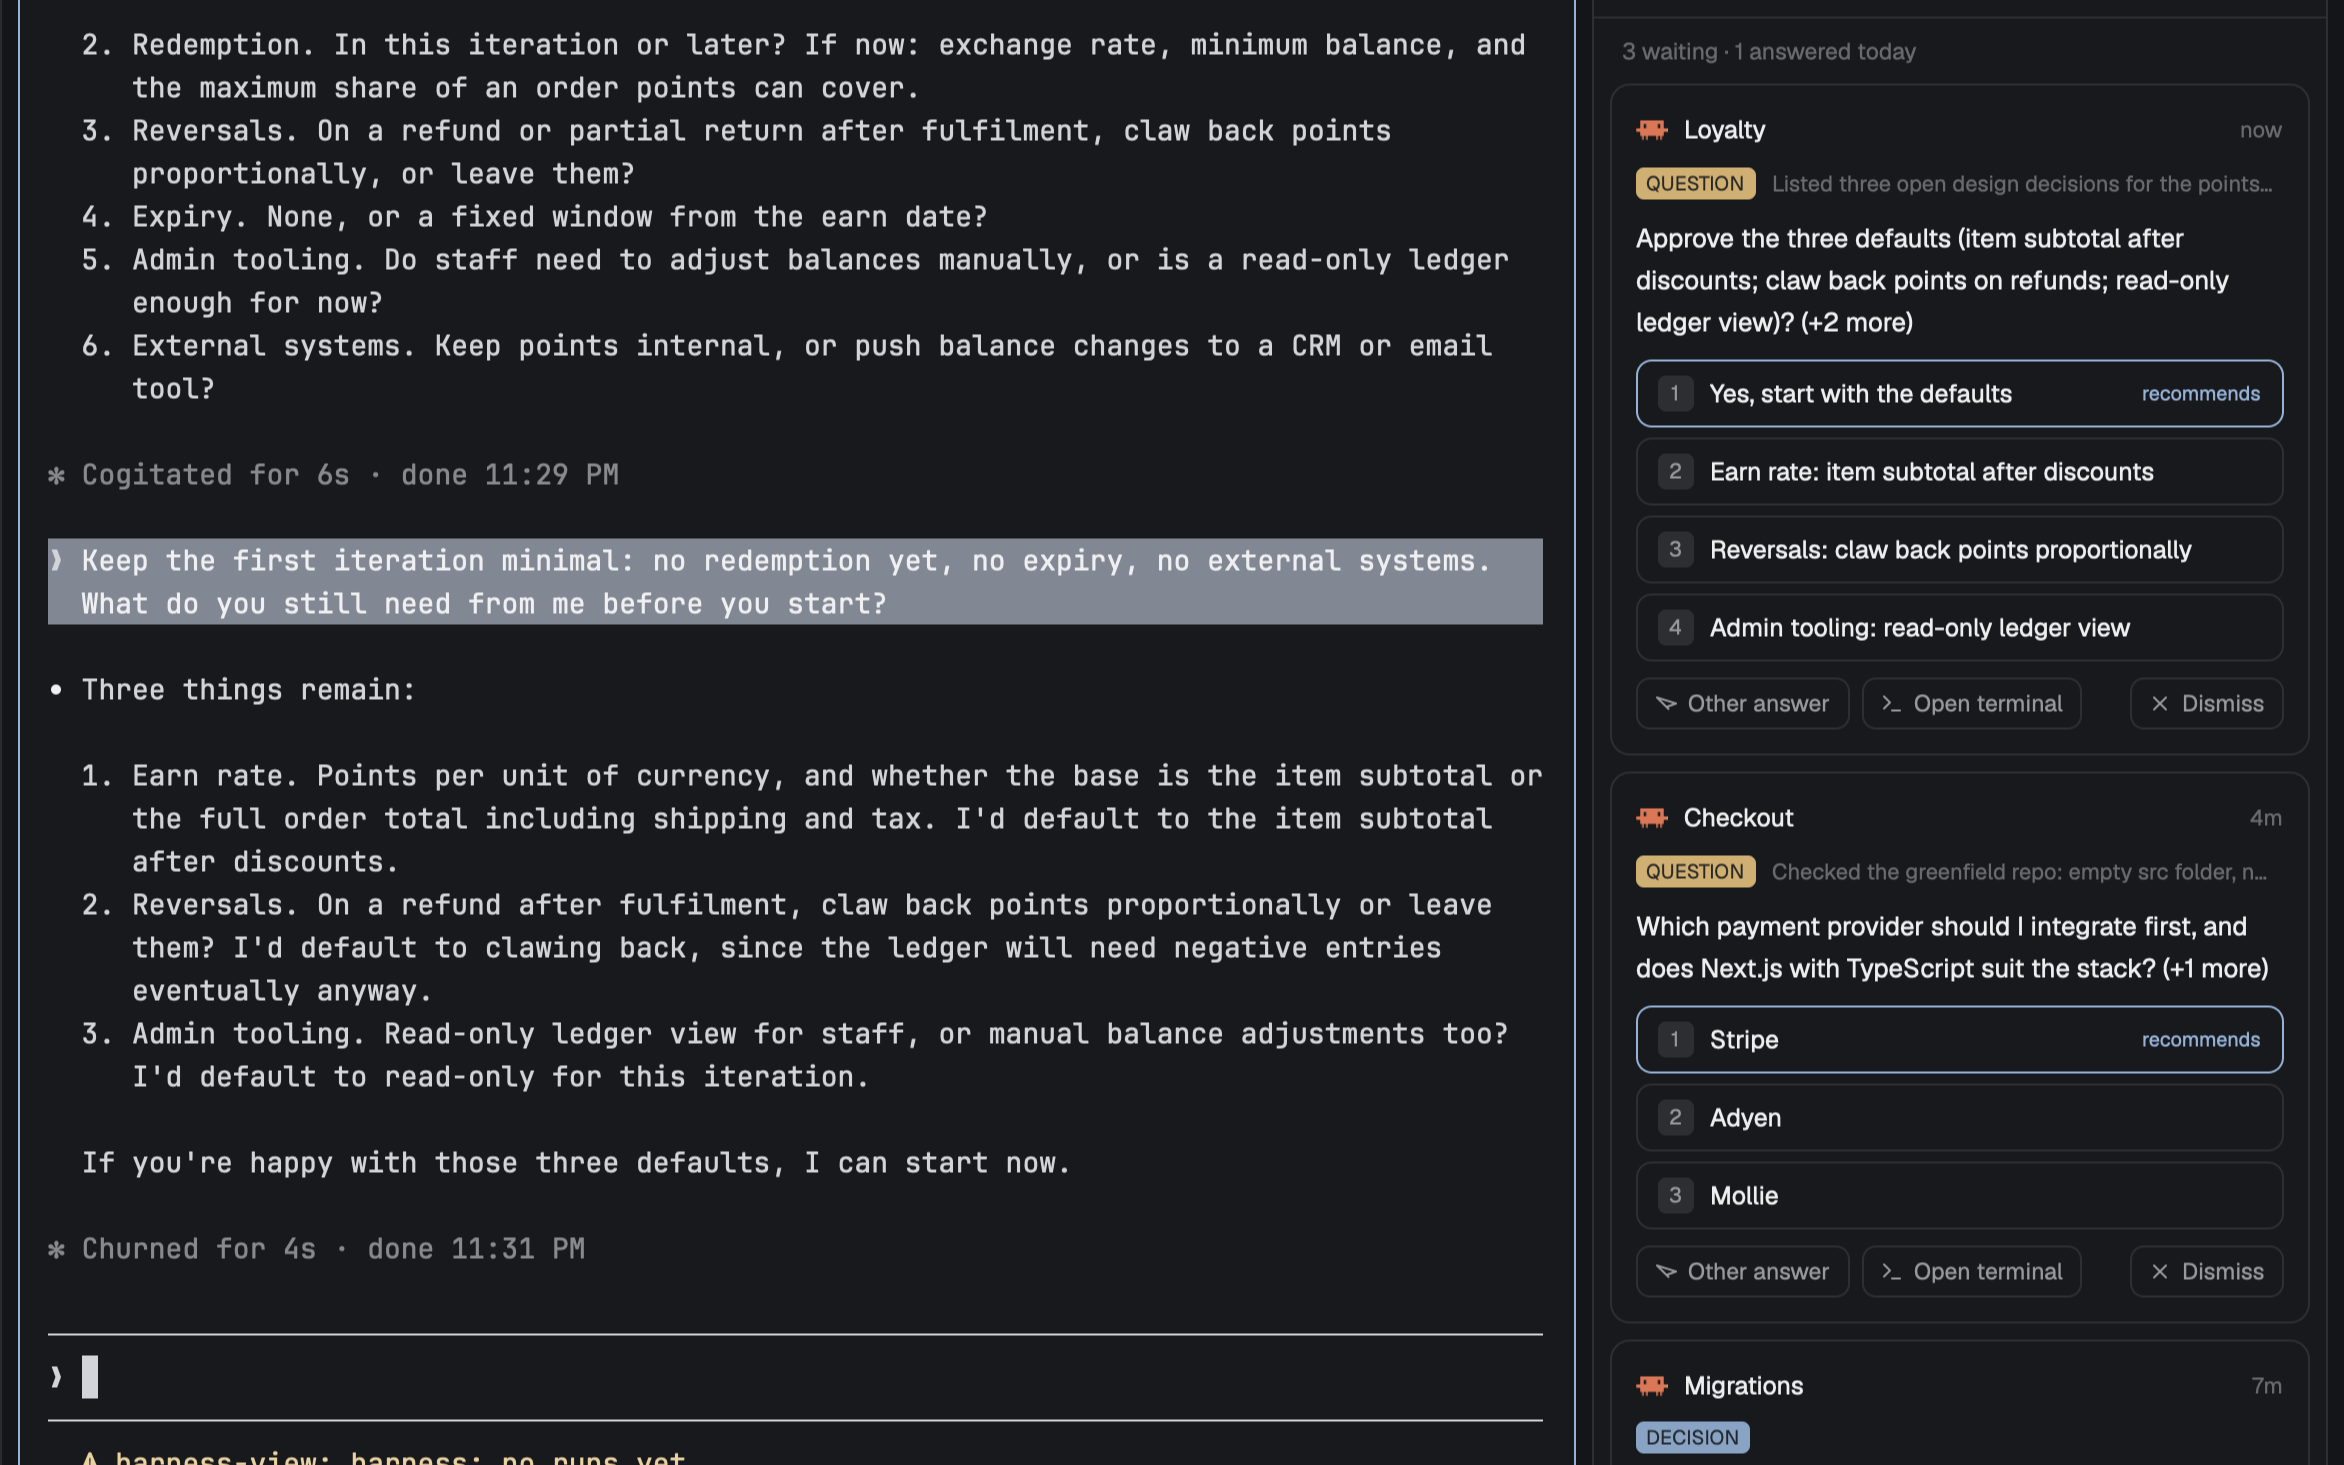
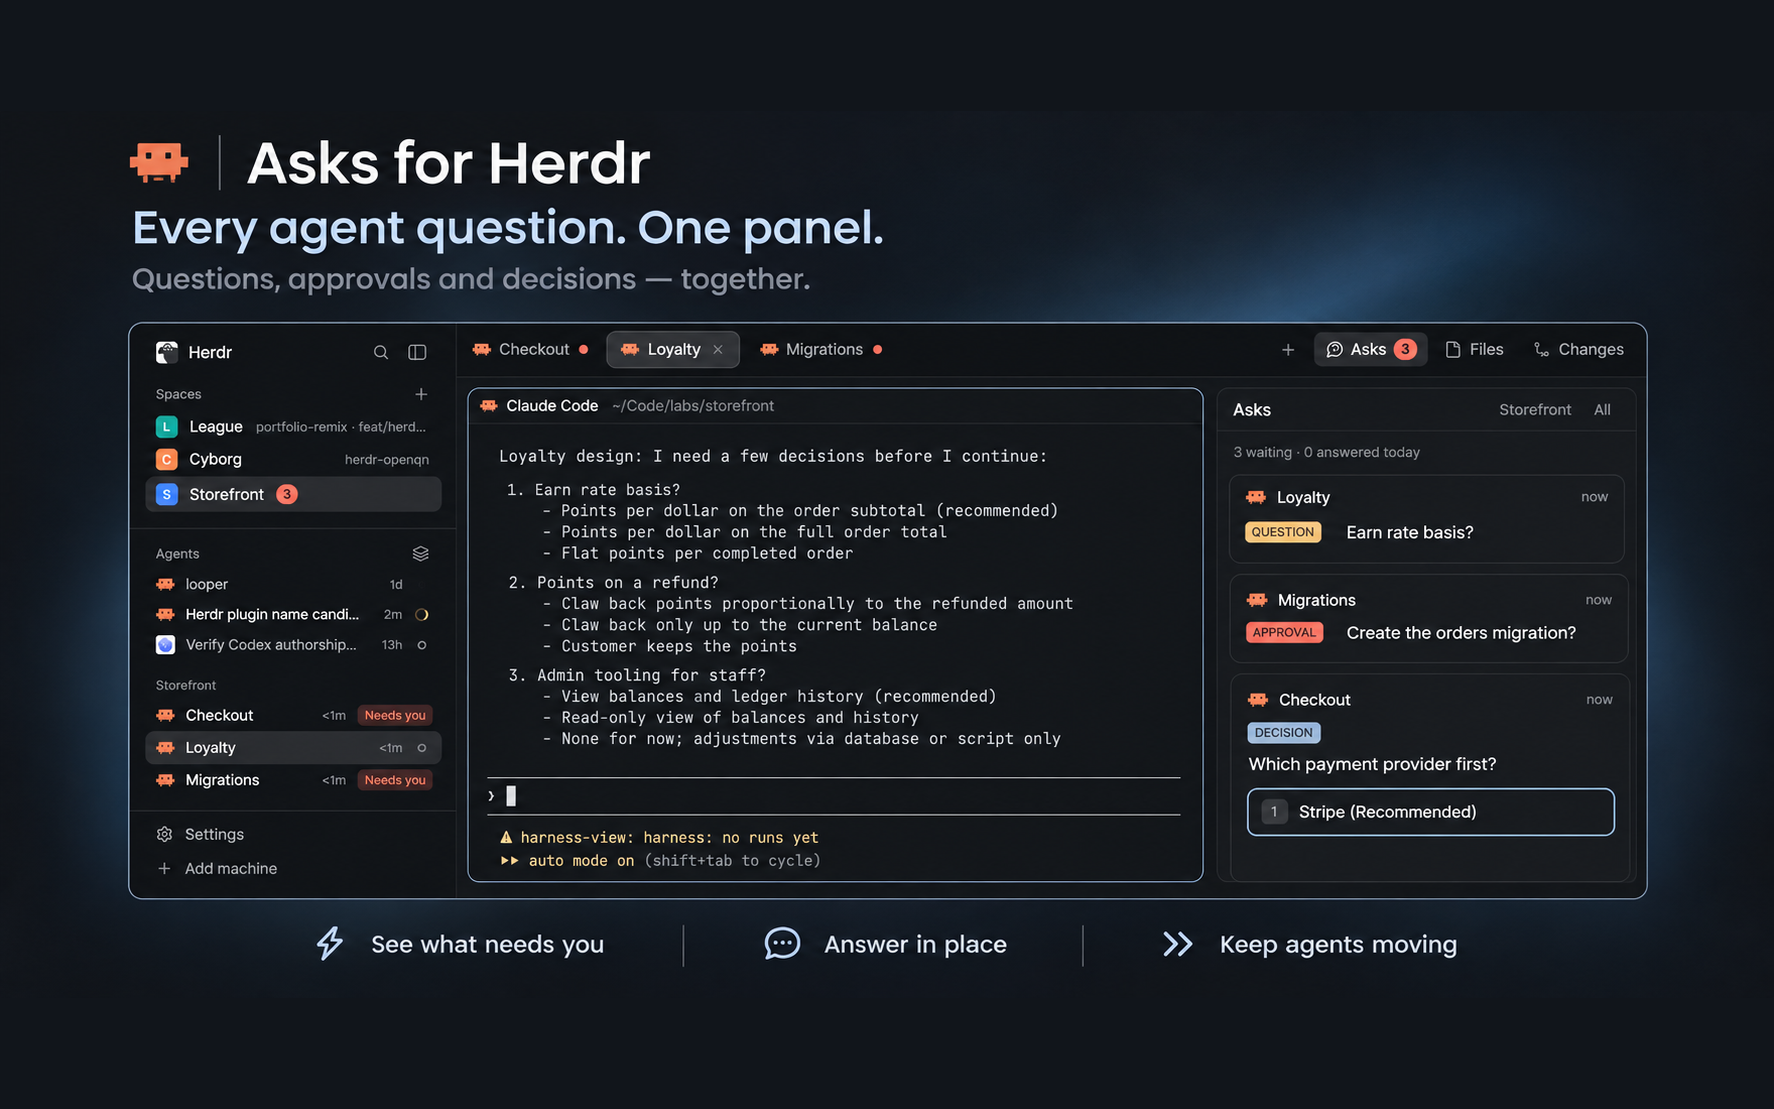
0.2.1: new preview
A product shot of the panel with all three card kinds and the Asks button,
padded to the gallery's 16:10 tile in its own background colour. Same
file serves the README header and the recipe.

diff --git a/README.md b/README.md
@@ -13,7 +13,7 @@ Answer on the card and the answer goes straight into that agent's terminal: a ke
 dialog, a message for a plain-text question. Each answer is appended to `docs/decisions.md` in
 the agent's workspace so the next agent can read it instead of asking again.
 
-**Version:** 0.2.0 (see `CHANGELOG.md`). Herdr desktop app only; the TUI plugin is planned (see `docs/PRD.md`).
+**Version:** 0.2.1 (see `CHANGELOG.md`). Herdr desktop app only; the TUI plugin is planned (see `docs/PRD.md`).
 
 ## What you get
 

diff --git a/CHANGELOG.md b/CHANGELOG.md
@@ -1,5 +1,11 @@
 # Changelog
 
+## 0.2.1 · 2026-11-10
+
+- **New preview.** A product shot of the panel with all three card kinds (a plain-text
+  question, an approval, an option menu) and the Asks button; it is the README header and the
+  gallery picture.
+
 ## 0.2.0 · 2026-11-09
 
 - **Named Asks.** Button, panel, README, recipe and gallery entry all say Asks. The default
